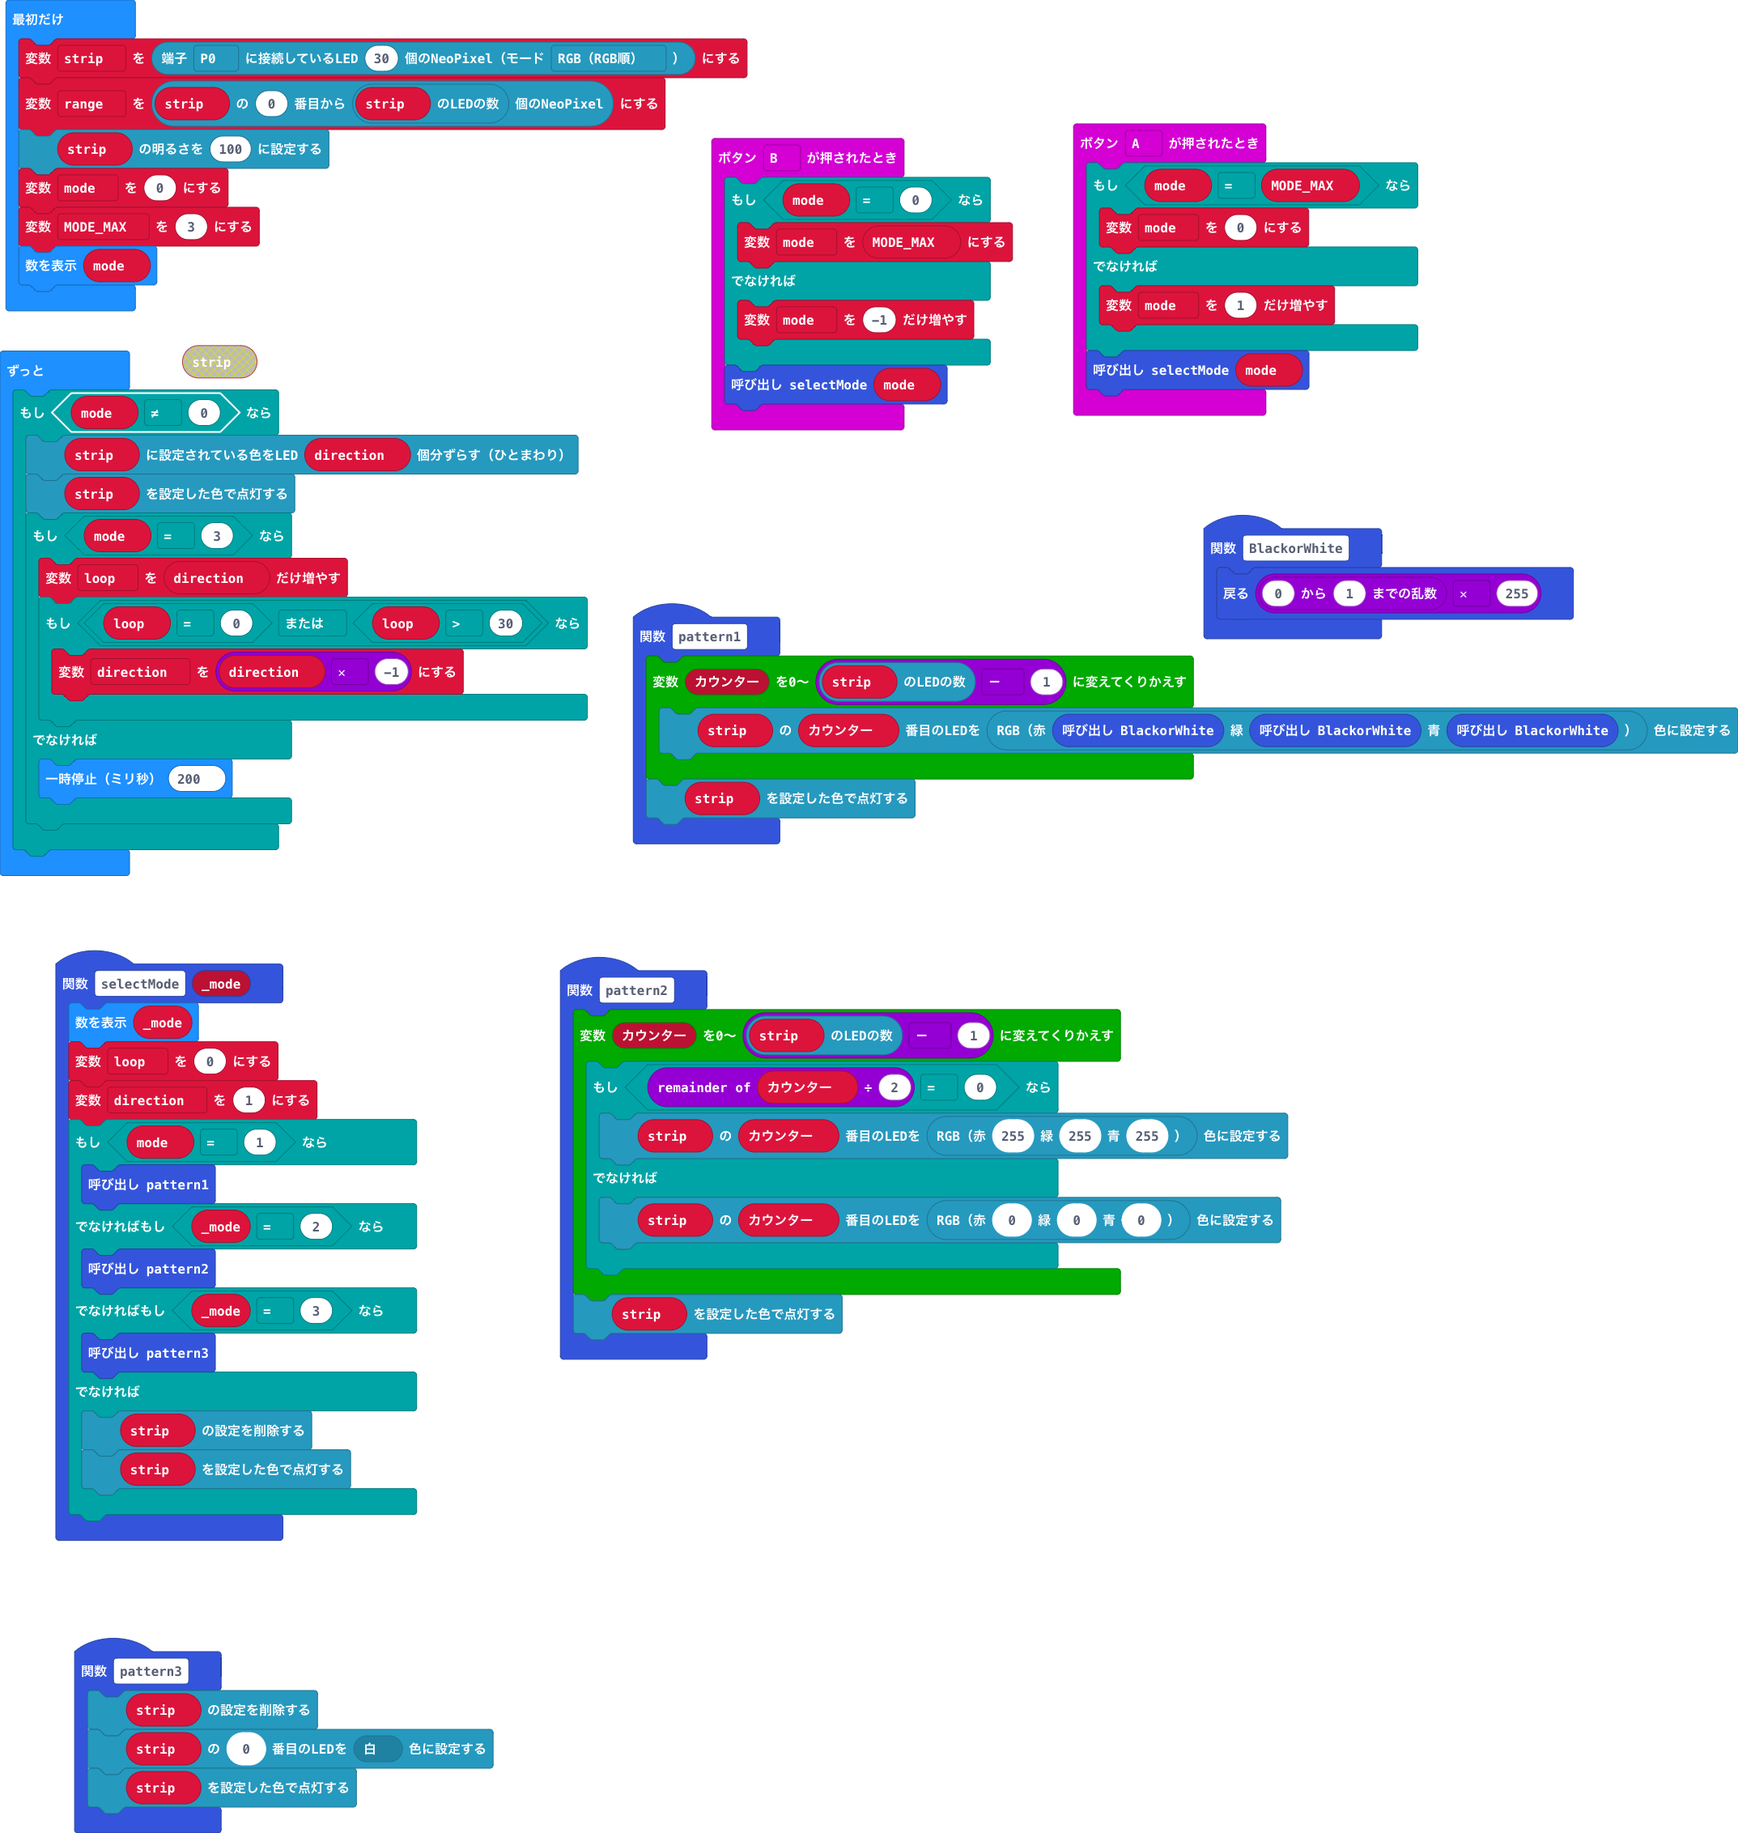
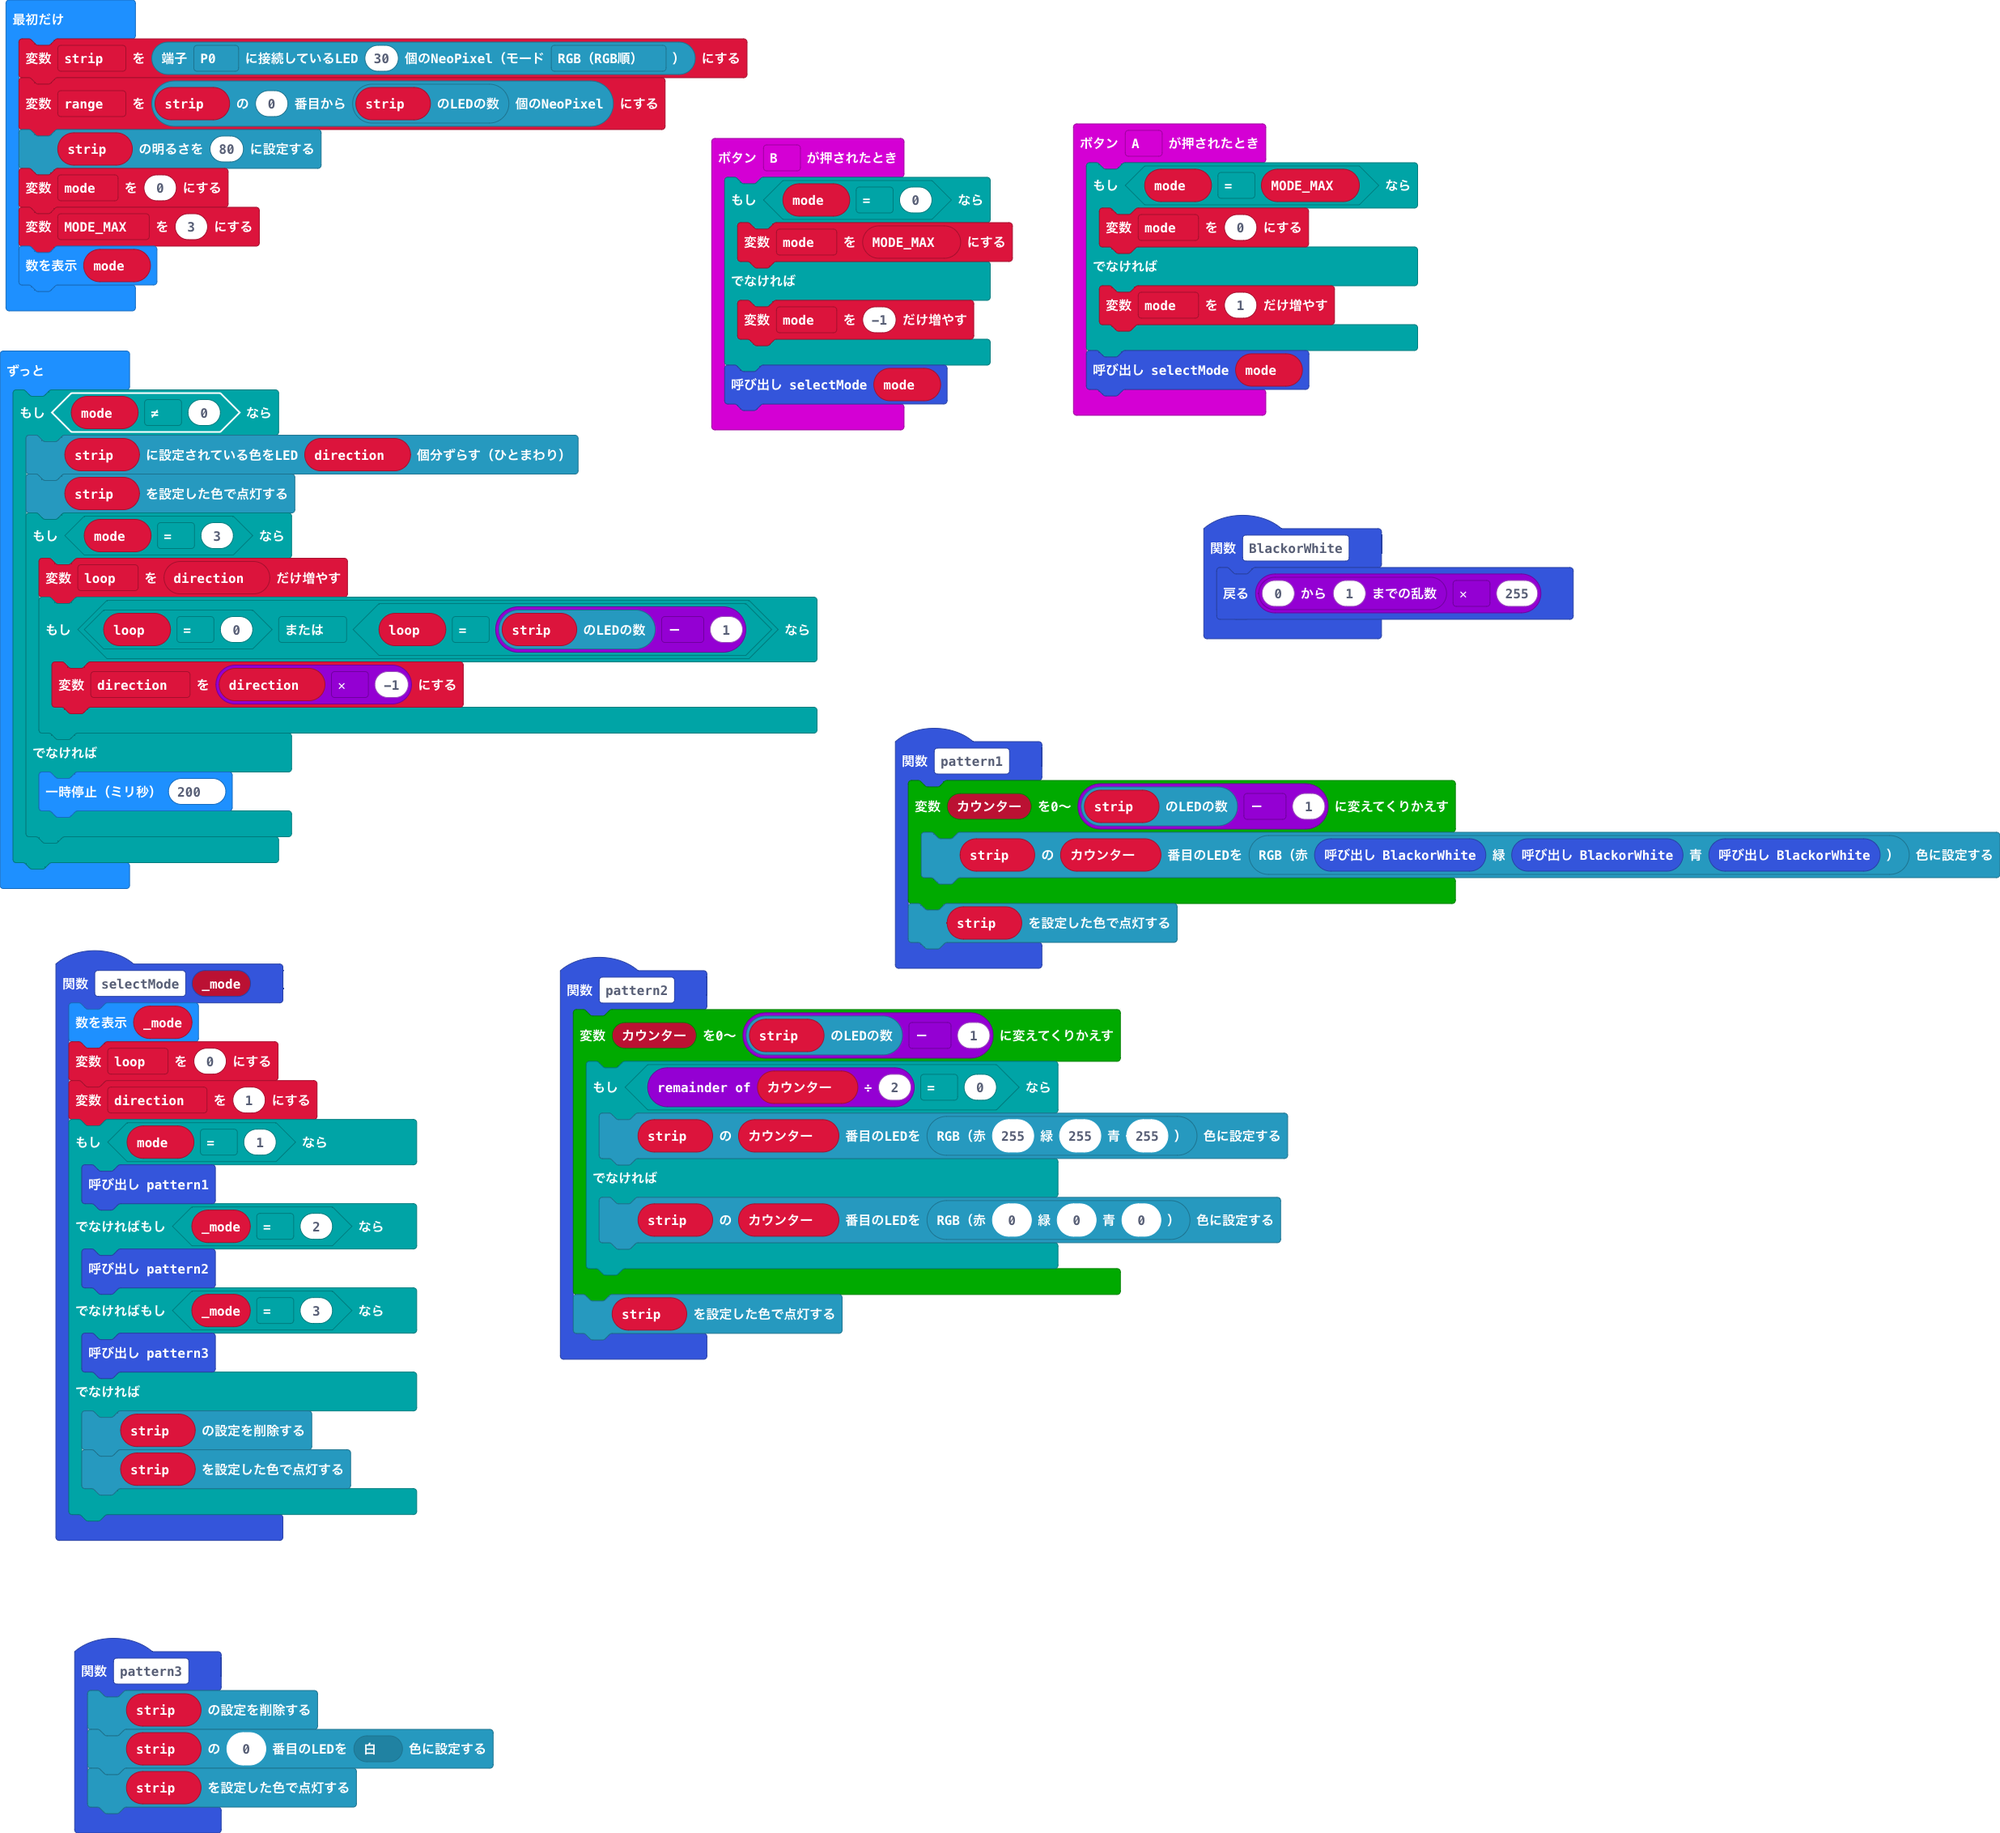
fix bug

Changed region(s): [[0.0, 0.0, 1.0, 0.742], [0.0, 0.5256, 0.2497, 0.8348], [0.0312, 0.8966, 0.2809, 1.0]]

diff --git a/main.ts b/main.ts
@@ -60,7 +60,7 @@ let mode = 0
 let strip: neopixel.Strip = null
 strip = neopixel.create(DigitalPin.P0, 30, NeoPixelMode.RGB_RGB)
 let range = strip.range(0, strip.length())
-strip.setBrightness(100)
+strip.setBrightness(80)
 mode = 0
 MODE_MAX = 3
 basic.showNumber(mode)
@@ -70,7 +70,7 @@ basic.forever(function () {
         strip.show()
         if (mode == 3) {
             loop += direction
-            if (loop == 0 || loop > 30) {
+            if (loop == 0 || loop == strip.length() - 1) {
                 direction = direction * -1
             }
         } else {
